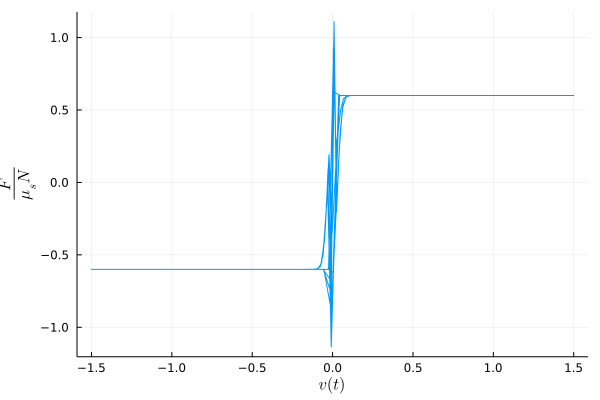
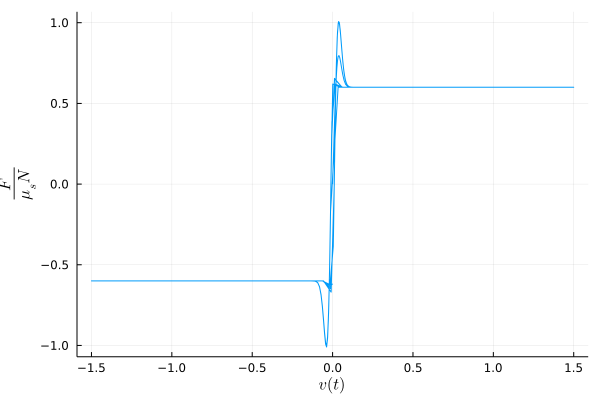
Update examples

diff --git a/README.md b/README.md
@@ -4,8 +4,14 @@ FrictionModels is a library that provides various friction models suitable for u
 [![Build Status](https://github.com/jchristopherson/FrictionModels.jl/actions/workflows/CI.yml/badge.svg?branch=main)](https://github.com/jchristopherson/FrictionModels.jl/actions/workflows/CI.yml?query=branch%3Amain)
 [![Coverage](https://codecov.io/gh/jchristopherson/FrictionModels.jl/branch/main/graph/badge.svg)](https://codecov.io/gh/jchristopherson/FrictionModels.jl)
 
+## Implemented Models:
+The following models are currently implemented.
+- Coulomb
+- LuGre
+- Hyperbolic [6]
+
 ## Basic Usage:
-The following example illustrates the use of the Lu-Gre model by computing and plotting the force-velocity relationship.  This example utilizes the Lu-Gre model; however, the same approach may be utilized for any of the other models by simply declaring the appropriate model type.
+The following example illustrates the use of the Lu-Gre model by computing and plotting the force-velocity relationship.  This example utilizes the Lu-Gre model, however, the same approach may be utilized for any of the other models by simply declaring the appropriate model type.
 ```julia
 using Plots
 using LaTeXStrings
@@ -17,24 +23,29 @@ velocity(t) = 1.5 * sin(10.0 * pi * t)
 # Develop a function describing the normal force between the two bodies.
 normal(t) = 100.0
 
+# A function describing the relative position between two bodies.  Notice, this
+# is not needed by the Lu-Gre model, and as such, any function can be defined
+# that only takes a single argument.
+position(t) = 0.0
+
 # Define the friction model
 mdl = LuGreModel(
     0.25,
     0.15,
     0.01,
     1.0e6,
-    6.1e3,
+    7.5e2,
     0.0
 )
 
 # Compute the friction model over a segment of time
 tspan = [0.0, 1.0]
-rsp = friction(mdl, tspan, normal, velocity)
+rsp = friction(mdl, tspan, normal, position, velocity, [0.0])
 
 # Plot the results
 plot(
     velocity.(rsp.t), 
-    rsp.force ./ (mdl.static_coefficient .* normal.(rsp.t)),
+    rsp.f ./ (mdl.static_coefficient .* normal.(rsp.t)),
     xlabel = L"v(t)",
     ylabel = L"\frac{F}{\mu_s N}",
     label = false
@@ -50,7 +61,6 @@ using CSV
 using Printf
 using DataFrames
 using LaTeXStrings
-using Interpolations    # Required for the interpolation routines
 using LsqFit            # Required for the statistics on the fitting process
 using FrictionModels
 
@@ -86,35 +96,19 @@ results = fit_model(
     data[:,1],      # Time
     data[:,4],      # Friction Force
     data[:,3],      # Normal Force
-    data[:,2],      # Velocity,
+    data[:,2],      # Velocity
+    [0.0],          # Initial Condition Vector
     lower = lb,     # Lower Bounds (optional)
     upper = ub      # Upper Bounds (optional)
 )
 
-# Evaluate the model and plot against the data.  Use linear interpolation to 
-# allow the solver to estimate normal force and velocity values at time points
-# not aligned with the measured values.
-normal_interp = LinearInterpolation(
-    data[:,1], data[:,3],
-    extrapolation_bc = Line()
-)
-velocity_interp = LinearInterpolation(
-    data[:,1], data[:,2],
-    extrapolation_bc = Line()
-)
-
-# The friction routine requires a function to describe the velocity and normal
-# force; therefore, define functions that use the interpolation objects.
-nrm(ti) = normal_interp(ti)
-vel(ti) = velocity_interp(ti)
-
 # Solve the model
 tspan = [first(data[:,1]), last(data[:,1])]
-rsp = friction(results.model, tspan, nrm, vel)
+rsp = friction(results.model, data[:,1], data[:,3], data[:,2], [0.0])
 
 # Plot the data
 plt = plot(
-    vel.(rsp.t), rsp.f,
+    data[:,2], rsp.f,
     xlabel = L"v(t)",
     ylabel = L"F(t)",
     label = "Fitted Model",
@@ -182,24 +176,24 @@ confidence = confidence_interval(results.fit)
 ```
 ```text
 Fitted Model Coefficients:
-static_coefficient: 0.200000
-        Error: 0.012948
-        Confidence Interval: (0.174464, 0.225536)
-coulomb_coefficient: 0.146012
-        Error: 0.004643
-        Confidence Interval: (0.136855, 0.155170)
-stribeck_velocity: 0.152533
-        Error: 0.002468
-        Confidence Interval: (0.147666, 0.157401)
-bristle_stiffness: 4.277057e+04
-        Error: 9.193762e+03
-        Confidence Interval: (2.463859e+04, 6.090254e+04)
-bristle_damping: 3.109026e+02
-        Error: 1.354454e+01
-        Confidence Interval: (2.841900e+02, 3.376152e+02)
-viscous_damping: 0.350666
-        Error: 0.411170
-        Confidence Interval: (-0.460245, 1.161576)
+static_coefficient: 0.200003
+        Error: 0.000182
+        Confidence Interval: (0.199645, 0.200361)
+coulomb_coefficient: 0.132016
+        Error: 0.000127
+        Confidence Interval: (0.131766, 0.132266)
+stribeck_velocity: 0.232961
+        Error: 0.000175
+        Confidence Interval: (0.232615, 0.233307)
+bristle_stiffness: 9.528510e+05
+        Error: 1.747849e+02
+        Confidence Interval: (9.525062e+05, 9.531957e+05)
+bristle_damping: 9.182547e+01
+        Error: 7.017297e+01
+        Confidence Interval: (-4.656995e+01, 2.302209e+02)
+viscous_damping: 1.000000
+        Error: 0.163265
+        Confidence Interval: (0.678009, 1.321991)
 ```
 ![](images/lu_gre_fit_example_plot_1.png?raw=true)
 
@@ -215,10 +209,13 @@ Time,Velocity,Normal,Friction
 ```
 
 ## References
-- Quinn, D.D., "A New Regularization of Coulomb Friction." Journal of Vibration and Acoustics, 126, 2004, 391-397.
-- McMillan, A.J., "A Non-Linear Friction Model for Self-Excited Vibrations." Journal of Sound and Vibration, 205(3), 1997, 323-335.
-- Lopez, I.; Busturia, J.M.; Nijmeijer, H., "Energy Dissipation of a Friction Damper." Journal of Sound and Vibration, 278, 2004, 539-561.
-- Dupont, P.; Armstrong, B.; Hayward, V., "Elasto-Plastic Friction Model: Contact Compliance and Stiction."Proceedinge 2000 American Control Conference, 2000.
-- Blaha, P. (2001). "Coulomb Friction Identification Using Harmonic Balance Method of Two-Relay System." PhD Thesis, BRNO University of Technology.
-- Rodriguez, E.D.; Garcia, B.S.; Cortes, F.R., (2020). "New Friction Model for Manipulator Robots based on Hyperbolic Functions." 19th National Mechantronics Congress, Queretaro, Mexico, 2020.
-
+1. Quinn, D.D., "A New Regularization of Coulomb Friction." Journal of Vibration and Acoustics, 126, 2004, 391-397.
+2. McMillan, A.J., "A Non-Linear Friction Model for Self-Excited Vibrations." Journal of Sound and Vibration, 205(3), 1997, 323-335.
+3. Lopez, I., Busturia, J.M., Nijmeijer, H., "Energy Dissipation of a Friction Damper." Journal of Sound and Vibration, 278, 2004, 539-561.
+4. Dupont, P., Armstrong, B., Hayward, V., "Elasto-Plastic Friction Model: Contact Compliance and Stiction."Proceedinge 2000 American Control Conference, 2000.
+5. Blaha, P. (2001). "Coulomb Friction Identification Using Harmonic Balance Method of Two-Relay System." PhD Thesis, BRNO University of Technology.
+6. Rodriguez, E.D., Garcia, B.S., Cortes, F.R., "New Friction Model for Manipulator Robots based on Hyperbolic Functions." 19th National Mechantronics Congress, Queretaro, Mexico, 2020.
+7. Al-Bender, F., Lampaert, V., Swevers, J., "Modeling of Dry Sliding Friction Dynamics: From Heuristic Models to Physically Motivated Models and Back." Americal Institute of Physics, 14(2): 445-460, 2004.
+8. Al-Bender, F., Lampaert, V., Swevers, J., "A Novel Generic Model at Asperity Level for Dry Friction Force Dynamics." Tribology Letters, 16: 81-93, 2004.
+9. Lampaert, V., Swevers, J., Al-Bender, F., "Modification of the Leuven Integrated Friction Model Structure." IEEE Transactions on Automatic Control, 47(4): 683-687, 2002.
+10. Al-Bender, F., Lampaert, V., Swevers, J., "The Generalized Maxwell-Slip Model: A Novel Model for Friction Simulation and Compensation." IEEE Transactions on Automatic Control, 50(11):1883-1887, 2005.
